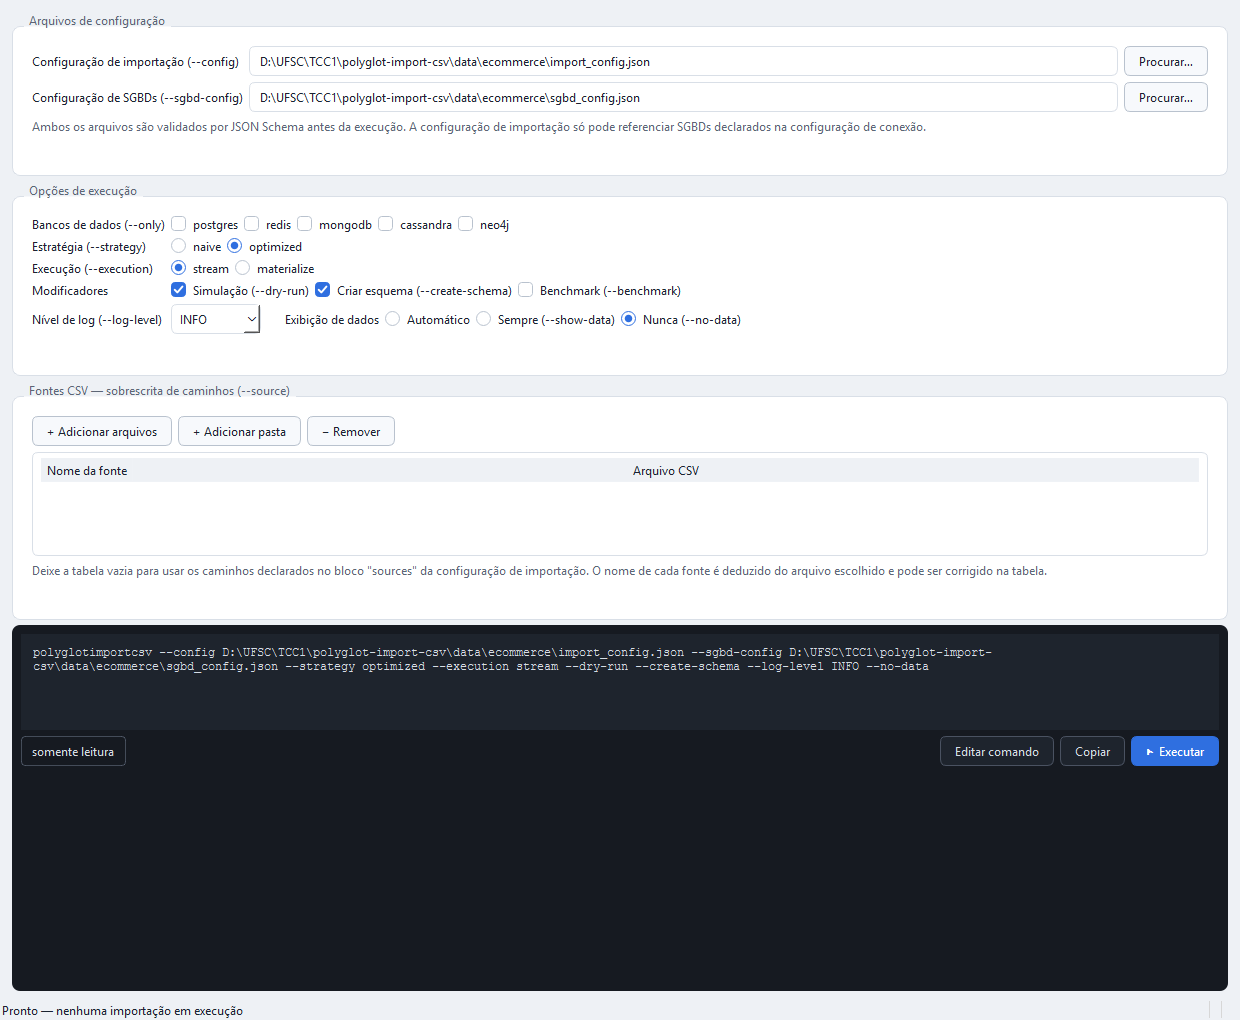
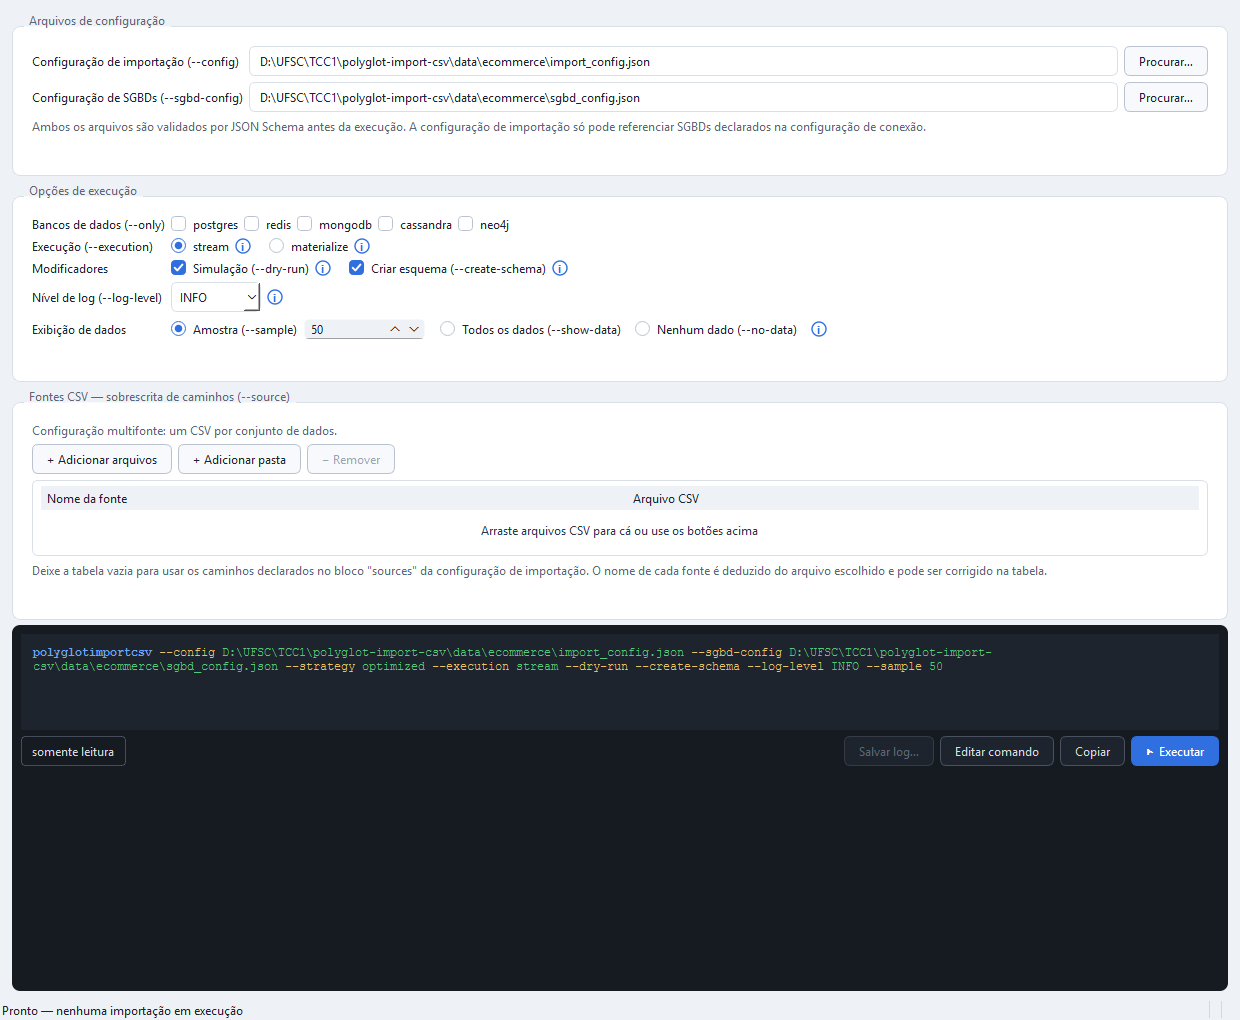
docs(tcc): recaptura as figuras da interface grafica
Figuras 12 a 14 mostram a interface nova (amostra, icones de ajuda,
comando e saida coloridos); a 15 passa a mostrar um erro barrado pela
validacao previa, antes da execucao, com o botao Executar desabilitado.

diff --git a/scripts/capture_gui_figures.py b/scripts/capture_gui_figures.py
@@ -7,14 +7,15 @@ never kept. This script makes the set reproducible: every figure is a genuine
 capture of ``MainWindow``, driven through the same signals a person's clicks
 would raise. Nothing is mocked.
 
-All four runs use ``--dry-run``, so no database has to be up.
+Figures 12-14 are one ``--dry-run``, so no database has to be up; figure 15
+never runs at all, because the pre-run validation blocks it.
 
 Usage, from the repository root::
 
     .venv/Scripts/python.exe scripts/capture_gui_figures.py
 
 Run it with the project's own interpreter: the "Executando:" line in figures 13
-and 15 shows whichever Python spawned the importer, and the report's figures
+and 14 shows whichever Python spawned the importer, and the report's figures
 show the project venv.
 """
 
@@ -88,7 +89,6 @@ def new_window(app: QApplication, settings_path: Path, config: Path) -> MainWind
     window.config_panel.set_paths(config, SGBD)
     window._on_config_changed()
     window.options_panel.dry_run_box.setChecked(True)
-    window.options_panel.show_data_buttons["none"].setChecked(True)
     window.resize(*SIZE)
     window.splitter.setSizes(SPLIT)
     window.show()
@@ -137,11 +137,15 @@ def main() -> int:
         window.process.stop()
         window.hide()
 
-        # Figure 15: the same command against a configuration whose "stock"
-        # source is a number, which satisfies neither branch of the schema.
+        # Figure 15: a configuration whose "stock" source is a number, which
+        # satisfies neither branch of the schema. The pre-run validation
+        # rejects it before anything runs: the CLI's own message sits in the
+        # configuration card and the Run button stays disabled, so there is
+        # deliberately no on_run() here.
         failing = new_window(app, settings_path, INVALID)
-        failing.on_run()
-        pump_until_idle(app, failing)
+        pump(app, 0.3)
+        assert not failing.console_panel.run_button.isEnabled(), "run must be blocked"
+        assert failing.config_panel.error_label.text(), "the schema error must be shown"
         grab(failing, "figure15-gui-erro.png")
         failing.hide()
     return 0
